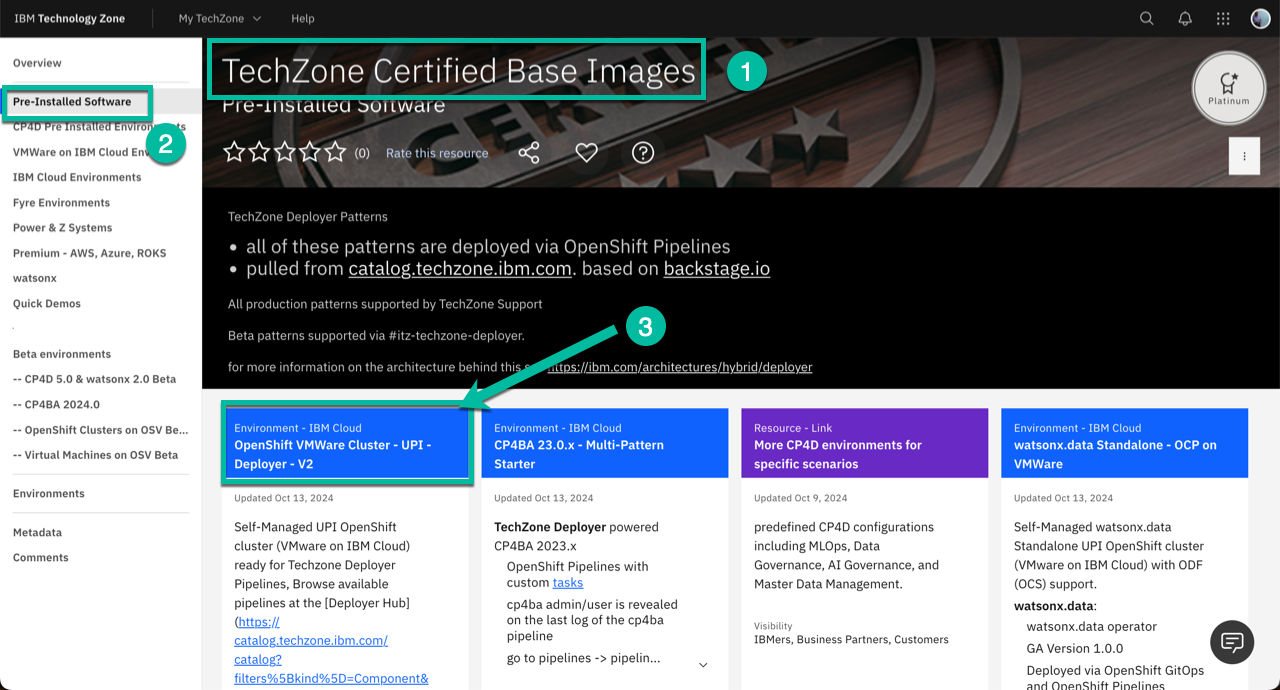
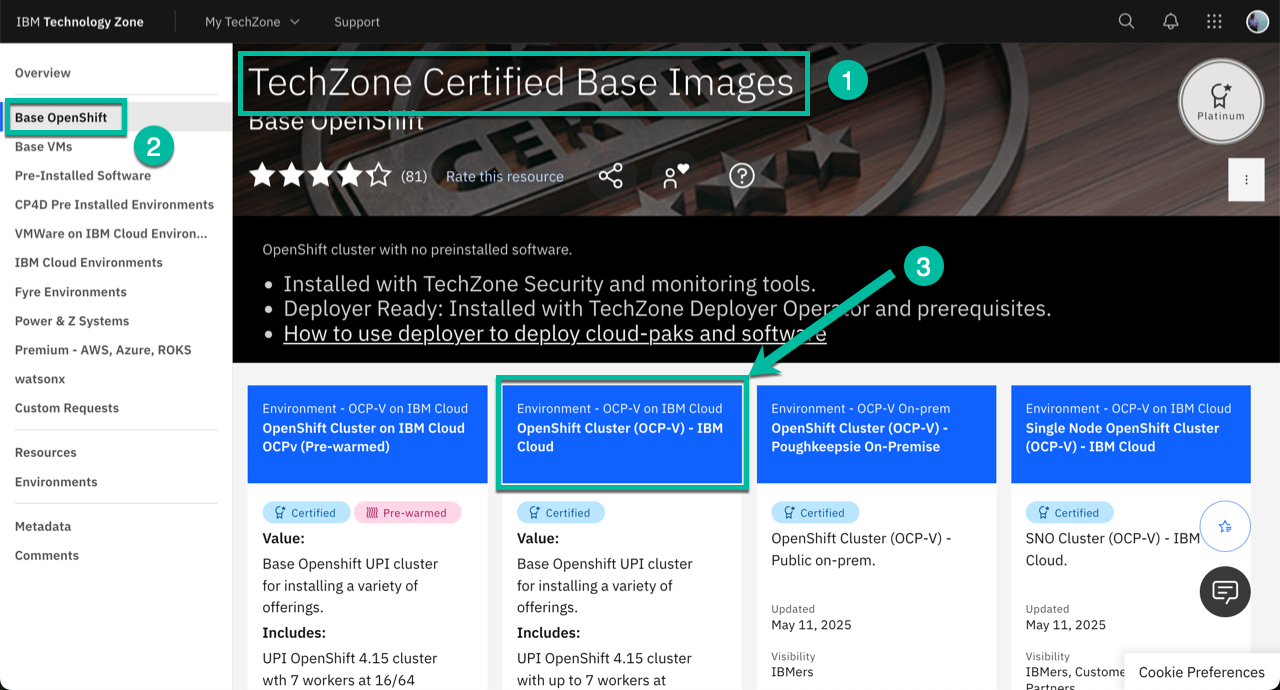
Update to use the new OCP-V cluster type in TZ

diff --git a/README.md b/README.md
@@ -8,11 +8,11 @@ It will get you an environment like the one below:
 
 ![Platform UI](images/Platform_UI.png)
 
-For these assets to work you will need an OCP cluster in TechZone using the **OpenShift VMWare Cluster - UPI - Deployer - V2** template which is part of the *TechZone Certified Base Images* collection under *Pre-Installed Software*. You can access the collection clicking [here](https://techzone.ibm.com/collection/tech-zone-certified-base-images/journey-pre-installed-software). You can use the following image as a reference: 
+For these assets to work you will need an OCP cluster in TechZone using the **OpenShift Cluster (OCP-V) - IBM Cloud** template which is part of the *TechZone Certified Base Images* collection under *Base Openshift*. You can access the collection clicking [here](https://techzone.ibm.com/collection/tech-zone-certified-base-images/journey-base-open-shift). You can use the following image as a reference:
 
 ![TechZone Collection](images/TZ_Collection.png)
 
-When making the reservation select **v4.16** for the OCP version and at least 1TB of ODF storage and 5 nodes with 32 cores and 128 GB of memory to get the best results. Note you can use OCP v4.15 but I recommend you use the latest version if possible. Some people has reported issues when using the default value for the *Master Node Flavor* so I suggest you change the value to **8 vCPUs X 32 GB** to get better results. The following image shows the recommended values:
+When making the reservation select **v4.16** for the OCP version and 5 nodes with 32 cores and 128 GB of memory to get the best results. Note you can use OCP v4.15 but I recommend you use the latest version if possible. Note that with the new OCP-V type of cluster in TechZone you do not need to select storage type because automatically provisions external ODF storage. The following image shows the recommended values:
 
 ![TechZone Reservation](images/TZ_Reservation.png)
 
